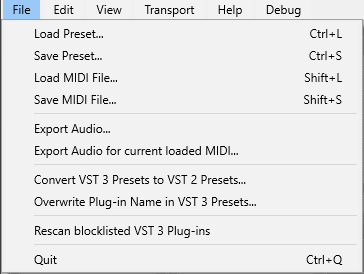
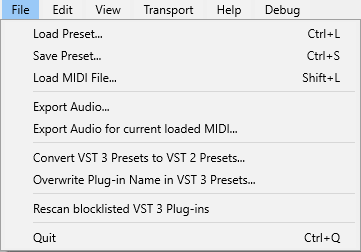
[update] doc + pngs

Changed region(s): [[0.0, 0.0, 1.0, 1.0], [0.8227, 0.9167, 0.9446, 0.9722], [0.0914, 0.9167, 0.1524, 0.9722]]

diff --git a/src/pages/What+is+the+VST+3+SDK/Plug-in+Test+Host.md b/src/pages/What+is+the+VST+3+SDK/Plug-in+Test+Host.md
@@ -14,55 +14,80 @@
 
 ## Introduction
 
-The SDK provides a test application called **VST3PluginTestHost** for Apple macOS X (x86_64/Apple M1) and Microsoft Windows (64bits).
+The SDK provides a test application called **VST3PluginTestHost** for Apple macOS X (x86_64/Apple M1) and Microsoft Windows (x64 and Arm64EC).
 
 This application allows you to load a plug-in, simulates some inputs (Audio and Event) and acts like a small **VST 3** host application based on an **ASIO** driver.
 
 Included in this application is a test module which allows you to check your plug-in in regard to the **VST 3** standard.
 
-![what_if_15](../../resources/what_is_15.jpg)
+![what_if_15](../../resources/what_is_15.png)
 
 Check the folder *"bin"* of the SDK!
 
 ## How to use it?
 
-![what_if_15](../../resources/what_is_15.jpg)
+### Command Line
+
+You could start **VST3PluginTestHost** with some options in the command line:
+
+ - Speficy a folder where the app should scan VST 3 Plug-ins:
+    - --pluginfolder "Folder to scan for plug-ins"
+ - Rendering MIDI files into audio files for the first loaded instrument:
+    - --audioexport "MIDI Folder location" "Audio Output Folder"
+
+### Menu Description
+
+#### File
 
 ![what_if_39](../../resources/what_is_39.png)
 
-- **File -> Load Preset...**: Load a VST 3 Preset for the first loaded plug-in (first slot).
-- **File -> Save Preset...**: Save a VST 3 Preset for the first loaded plug-in.
+- **File => Load Preset...**: Load a VST 3 Preset for the first loaded plug-in (first slot).
+- **File => Save Preset...**: Save a VST 3 Preset for the first loaded plug-in.
 ---
-- **File -> Load MIDI File...**: Load a MIDI file which could be played by using the transport section, all loaded plug-ins will received the MIDI events.
-- **File -> Save MIDI File...**: Save the current MIDI tracks loaded.
+- **File => Load MIDI File...**: Load a MIDI file which could be played by using the transport section, all loaded plug-ins will received the MIDI events.
 ---
-- **File -> Export Audio...**: this allows to choose a folder with MIDI files, loaded each of them and export the audio renderings of the first loaded plug-in.
-- **File -> Export Audio for current loaded MIDI...**: this allows to use the current loaded MIDI file for exporting the audio renderings of the first loaded plug-in.
+- **File => Export Audio...**: this allows to choose a folder with MIDI files, loaded each of them and export the audio renderings of the first loaded plug-in.
+- **File => Export Audio for current loaded MIDI...**: this allows to use the current loaded MIDI file for exporting the audio renderings of the first loaded plug-in.
 ---
-- **File -> Convert VST 3 Presets to VST 2 Presets**: this allows to convert **VST 3** Presets to compatible **VST 2** Presets (fxp or fxb).
-- **File -> Overwrite Plug-in Name in VST 3 Presets...**: this allows to rename the plug-in name in a set of **VST 3** Presets.
+- **File => Convert VST 3 Presets to VST 2 Presets**: this allows to convert **VST 3** Presets to compatible **VST 2** Presets (fxp or fxb).
+- **File => Overwrite Plug-in Name in VST 3 Presets...**: this allows to rename the plug-in name in a set of **VST 3** Presets.
 ---
-- **File -> Rescan blocklisted VST 3 Plug-in**: this allows to force a rescan of plug-ins which were put in the blocklist.
+- **File => Rescan blocklisted VST 3 Plug-in**: this allows to force a rescan of plug-ins which were put in the blocklist.
+
+#### Edit
 
 ![what_if_40](../../resources/what_is_40.png)
 
-- **Edit -> Key Commands...**: opens the key commands windows.
-- **Edit -> Global Preferences...**: opens the global preferences windows where you could change the ASIO driver, for example.
-- **Edit -> Plug-In Preferences...**: opens the plug-in preferences windows where you could change Inputs/Outputs routing, for example.
+- **Edit => Key Commands...**: opens the key commands windows.
+- **Edit => Global Preferences...**: opens the global preferences windows where you could change the ASIO driver, for example.
+- **Edit => Plug-In Preferences...**: opens the plug-in preferences windows where you could change Inputs/Outputs routing, for example.
+
+#### View
 
 ![what_if_41](../../resources/what_is_41.png)
-- **View -> Open Plug-in Information Window**: opens a window showing all registered component and controller **VST 3** plug-ins.
-- **View -> Open Plug-in Unit Tests Window**: opens a window where you can test your plug-in with a series of unit tests.
-- **View -> Open Preset Editor**: allows you to open, check and modify **VST 3** presets (adding meta attributes like in Instrument/- Style/Character)
+- **View => Open Plug-in Information Window**: opens a window showing all registered component and controller **VST 3** plug-ins.
+- **View => Open Plug-in Unit Tests Window**: opens a window where you can test your plug-in with a series of unit tests.
+- **View => Open Preset Editor**: allows you to open, check and modify **VST 3** presets (adding meta attributes like in Instrument/- Style/Character)
+
+#### Transport
 
 ![what_if_42](../../resources/what_is_42.png)
 
+ - Typical Transport actions.
+
+#### Help
+
 ![what_if_43](../../resources/what_is_43.png)
+
+- Some useful links for developing VST 3 Plug-ins.
+
 ---
 
-![what_if_16](../../resources/what_is_16.jpg)
+#### Dark Mode version
 
-Dark Mode version
+![what_if_16](../../resources/what_is_16.png)
+
+ - Selectable in the **Edit => Global Preferences** Windows.
 
 ## VST Player Window
 
@@ -91,6 +116,8 @@ This section simulates note events sent to the plug-in.
 
 This section allows you to load serialized multiple plug-ins. Each plug-in will be loaded in a slot.
 
+![what_if_44](../../resources/what_is_44.png)
+
 - To load a plug-in (Audio or Instrument) click on the associated pop-up menu and select one plug-in.
 - To unload a plug-in, click on its associated X button on its slot.
 
@@ -99,7 +126,7 @@ For each loaded plug-in in a slot you can:
 - Enable/disable the plug-in with the **On** button.
 - Bypass/process the plug-in with the **Byp** button (if available as parameter).
 - Enable/disable the [Side-chain](../Technical+Documentation/Change+History/3.0.0/Multiple+Dynamic+IO.html#what-is-a-side-chain) bus with the **Aux** button (available only if the plug-in has input [Side-chain](../Technical+Documentation/Change+History/3.0.0/Multiple+Dynamic+IO.html#what-is-a-side-chain)).
-- Open its editor with the **Edit** button.
+- Open its editor with the **Edit** button. A second **Edit** button allows to open a second editor (useful for checking if the used GUI Framework of the plug-in allows this!).
 - Save a Preset with the **Store** button.
 - Load a Preset with the **Load** button.
 - Open the information page of this plug-in with the **Info** button (see below).
@@ -131,7 +158,7 @@ Right click on the opened plug-in opens a context menu which allows to trigger s
 
 In this section you can:
 
-|• set the gain of the output audio<br> • control the transport state (Loop/Start/Stop/Rewind)<br> • change the tempo and signature | ![what_if_21](../../resources/what_is_21.jpg) |
+| • set the gain of the output audio<br> • toggle time format between Seconds and Bars and Beats<br> • set the gain of the output audio<br> • change the song position<br> • control the transport state (Loop/Start/Stop/Rewind)<br> • change the tempo and signature | ![what_if_21](../../resources/what_is_21.png) |
 | :- | - |
 
 ## VST 3 Plug-ins Tests Window

diff --git a/src/pages/What+is+the+VST+3+SDK/Plug-in+Examples.md b/src/pages/What+is+the+VST+3+SDK/Plug-in+Examples.md
@@ -94,7 +94,7 @@ This plug-in:
 - shows how to exchange data (waveform) between processor (in the realtime thread) and controller using the VST Data Exchange API: [Vst::IDataExchangeHandler](../Technical+Documentation/Data+Exchange/Index.md)
 - shows how easy it is to use [**VSTGUI**](VSTGUI.md)
 
-![what_if_38](../../resources/what_is_38.jpg)
+![what_if_38](../../resources/what_is_38.png)
 
 Check the folder *"public.sdk/samples/vst/dataexchange"* of the SDK!
 
